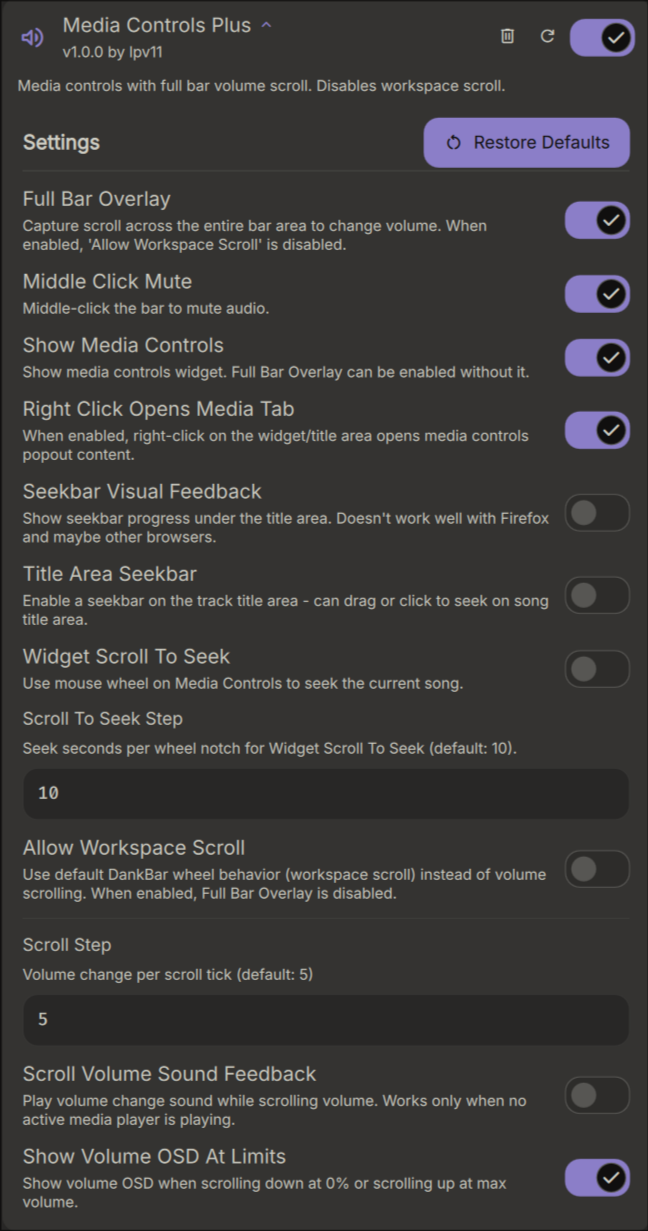
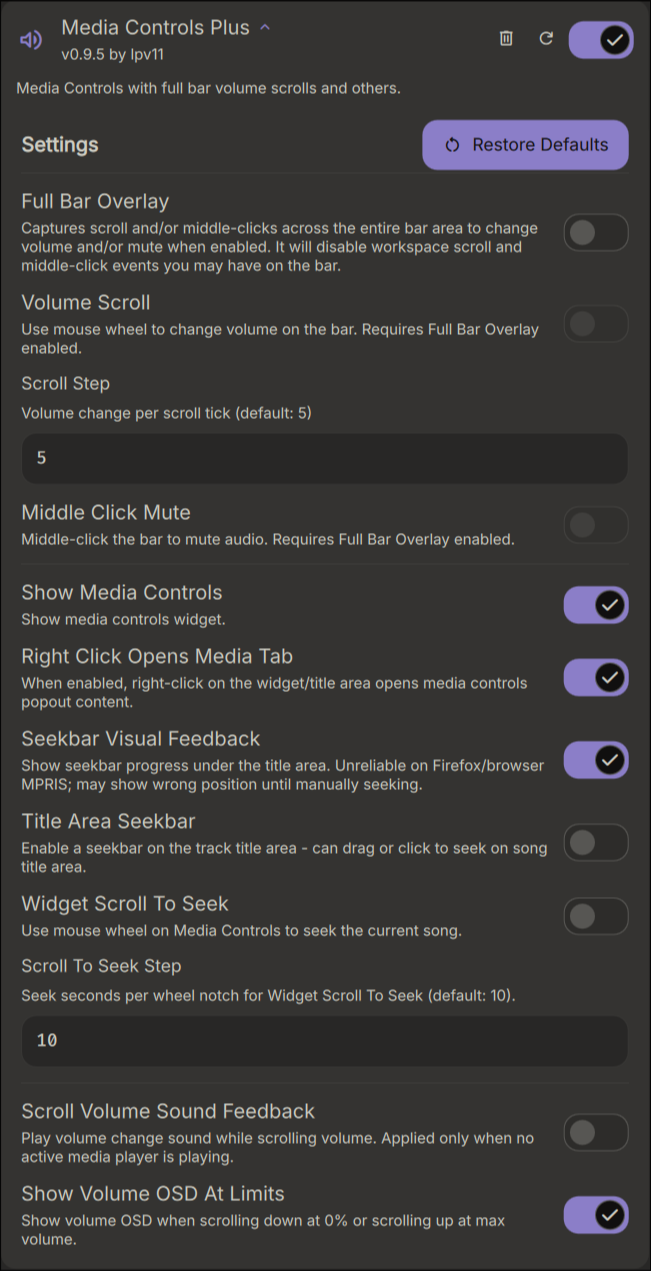
Sync latest plugin changes and screenshot

diff --git a/MediaControlsPlus.qml b/MediaControlsPlus.qml
@@ -22,10 +22,10 @@ PluginComponent {
     }
 
     property bool fullOverlay: pluginData.fullOverlay !== false
+    property bool volumeScrollEnabled: fullOverlay && pluginData.volumeScroll !== false
     property bool hideWhenNoMusic: true
     property bool showOsdAtLimits: pluginData.showOsdAtLimits !== false
     property bool showMediaControls: pluginData.showMediaControls !== false
-    property bool allowWorkspaceScroll: pluginData.allowWorkspaceScroll === true
     property bool middleClickMuteEnabled: overlayEnabled && pluginData.middleClickMute !== false
     property bool scrollVolumeSoundFeedbackEnabled: pluginData.scrollVolumeSoundFeedback === true
     property bool textSeekbarEnabled: showMediaControls && pluginData.textSeekbarEnabled === true
@@ -36,7 +36,7 @@ PluginComponent {
         return Number.isFinite(n) && n > 0 ? Math.floor(n) : 10
     }
     property bool rightClickOpensMediaTab: showMediaControls && pluginData.rightClickOpensMediaTab !== false
-    property bool overlayEnabled: fullOverlay && !allowWorkspaceScroll
+    property bool overlayEnabled: fullOverlay
     pillClickAction: showMediaControls ? (() => {
         togglePlayPause();
     }) : null
@@ -45,15 +45,9 @@ PluginComponent {
             toggleMediaOnlyPopout(x, y, width, section, screen)
     }
 
-    // Keep settings mutually exclusive in storage so toggles reflect reality.
-    onAllowWorkspaceScrollChanged: {
-        if (allowWorkspaceScroll && fullOverlay)
-            pluginData.fullOverlay = false
-    }
-
     onFullOverlayChanged: {
-        if (fullOverlay && allowWorkspaceScroll)
-            pluginData.allowWorkspaceScroll = false
+        if (!fullOverlay && pluginData.volumeScroll !== false)
+            pluginData.volumeScroll = false
     }
 
     onShowMediaControlsChanged: {
@@ -937,16 +931,16 @@ PluginComponent {
                 }
 
                 onWheel: wheel => {
+                    if (!root.volumeScrollEnabled) {
+                        wheel.accepted = false
+                        return
+                    }
                     if (root.showMediaControls && root.widgetAreaScrollSeekEnabled && mediaLoader.item) {
                         const p = mapToItem(mediaLoader, wheel.x, wheel.y)
                         if (p.x >= 0 && p.y >= 0 && p.x <= mediaLoader.width && p.y <= mediaLoader.height) {
                             wheel.accepted = false
                             return
                         }
-                    }
-                    if (root.allowWorkspaceScroll) {
-                        wheel.accepted = false
-                        return
                     }
                     if (wheel.angleDelta.y === 0)
                         return
@@ -966,11 +960,11 @@ PluginComponent {
             WheelHandler {
                 acceptedDevices: PointerDevice.Mouse | PointerDevice.TouchPad
                 onWheel: event => {
-                    if (root.showMediaControls && root.widgetAreaScrollSeekEnabled) {
+                    if (!root.volumeScrollEnabled) {
                         event.accepted = false
                         return
                     }
-                    if (root.allowWorkspaceScroll) {
+                    if (root.showMediaControls && root.widgetAreaScrollSeekEnabled) {
                         event.accepted = false
                         return
                     }
@@ -1023,16 +1017,16 @@ PluginComponent {
                 }
 
                 onWheel: wheel => {
+                    if (!root.volumeScrollEnabled) {
+                        wheel.accepted = false
+                        return
+                    }
                     if (root.showMediaControls && root.widgetAreaScrollSeekEnabled && mediaLoader.item) {
                         const p = mapToItem(mediaLoader, wheel.x, wheel.y)
                         if (p.x >= 0 && p.y >= 0 && p.x <= mediaLoader.width && p.y <= mediaLoader.height) {
                             wheel.accepted = false
                             return
                         }
-                    }
-                    if (root.allowWorkspaceScroll) {
-                        wheel.accepted = false
-                        return
                     }
                     if (wheel.angleDelta.y === 0)
                         return
@@ -1052,11 +1046,11 @@ PluginComponent {
             WheelHandler {
                 acceptedDevices: PointerDevice.Mouse | PointerDevice.TouchPad
                 onWheel: event => {
-                    if (root.showMediaControls && root.widgetAreaScrollSeekEnabled) {
+                    if (!root.volumeScrollEnabled) {
                         event.accepted = false
                         return
                     }
-                    if (root.allowWorkspaceScroll) {
+                    if (root.showMediaControls && root.widgetAreaScrollSeekEnabled) {
                         event.accepted = false
                         return
                     }

diff --git a/MediaControlsPlusSettings.qml b/MediaControlsPlusSettings.qml
@@ -28,8 +28,8 @@ PluginSettings {
             text: "Restore Defaults"
             iconName: "restart_alt"
             onClicked: {
-                allowWorkspaceScrollToggle.value = false
                 fullOverlayToggle.value = true
+                volumeScrollToggle.value = true
                 middleClickMuteToggle.value = true
                 showMediaControlsToggle.value = true
                 textSeekbarToggle.value = false
@@ -55,28 +55,56 @@ PluginSettings {
         id: fullOverlayToggle
         settingKey: "fullOverlay"
         label: "Full Bar Overlay"
-        description: "Capture scroll across the entire bar area to change volume. When enabled, 'Allow Workspace Scroll' is disabled."
+        description: "Captures scroll and/or middle-clicks across the entire bar area to change volume and/or mute when enabled. It will disable workspace scroll and middle-click events you may have on the bar."
         defaultValue: true
         onValueChanged: {
-            if (value && allowWorkspaceScrollToggle.value)
-                allowWorkspaceScrollToggle.value = false
+            if (value && !volumeScrollToggle.value)
+                volumeScrollToggle.value = true
+            if (!value && volumeScrollToggle.value)
+                volumeScrollToggle.value = false
         }
+    }
+
+    ToggleSetting {
+        id: volumeScrollToggle
+        settingKey: "volumeScroll"
+        label: "Volume Scroll"
+        description: "Use mouse wheel to change volume on the bar. Requires Full Bar Overlay enabled."
+        defaultValue: true
+        enabled: fullOverlayToggle.value
+    }
+
+    StringSetting {
+        id: volumeScrollStepSetting
+        settingKey: "step"
+        label: "Scroll Step"
+        description: "Volume change per scroll tick (default: 5)"
+        placeholder: "5"
+        defaultValue: "5"
+        enabled: fullOverlayToggle.value && volumeScrollToggle.value
     }
 
     ToggleSetting {
         id: middleClickMuteToggle
         settingKey: "middleClickMute"
         label: "Middle Click Mute"
-        description: "Middle-click the bar to mute audio."
+        description: "Middle-click the bar to mute audio. Requires Full Bar Overlay enabled."
         defaultValue: true
         enabled: fullOverlayToggle.value
+    }
+
+    Rectangle {
+        width: parent.width
+        height: 1
+        color: Theme.outline
+        opacity: 0.3
     }
 
     ToggleSetting {
         id: showMediaControlsToggle
         settingKey: "showMediaControls"
         label: "Show Media Controls"
-        description: "Show media controls widget. Full Bar Overlay can be enabled without it."
+        description: "Show media controls widget."
         defaultValue: true
         onValueChanged: {
             if (!value) {
@@ -133,18 +161,6 @@ PluginSettings {
         enabled: showMediaControlsToggle.value && widgetAreaScrollSeekToggle.value
     }
 
-    ToggleSetting {
-        id: allowWorkspaceScrollToggle
-        settingKey: "allowWorkspaceScroll"
-        label: "Allow Workspace Scroll"
-        description: "Use default DankBar wheel behavior (workspace scroll) instead of volume scrolling. When enabled, Full Bar Overlay is disabled."
-        defaultValue: false
-        onValueChanged: {
-            if (value && fullOverlayToggle.value)
-                fullOverlayToggle.value = false
-        }
-    }
-
     Rectangle {
         width: parent.width
         height: 1
@@ -152,20 +168,11 @@ PluginSettings {
         opacity: 0.3
     }
 
-    StringSetting {
-        id: volumeScrollStepSetting
-        settingKey: "step"
-        label: "Scroll Step"
-        description: "Volume change per scroll tick (default: 5)"
-        placeholder: "5"
-        defaultValue: "5"
-    }
-
     ToggleSetting {
         id: scrollVolumeSoundFeedbackToggle
         settingKey: "scrollVolumeSoundFeedback"
         label: "Scroll Volume Sound Feedback"
-        description: "Play volume change sound while scrolling volume. Works only when no active media player is playing."
+        description: "Play volume change sound while scrolling volume. Applied only when no active media player is playing."
         defaultValue: false
     }
 

diff --git a/README.md b/README.md
@@ -4,6 +4,11 @@
 
 Media controls with configurable full-bar volume overlay behavior for Dank Material Shell.
 
+## Warning
+
+It will overwrite any default actions your Dank bar has 
+with the actions you have enabled. E.g. enabling volume scroll routes mouse wheel input to volume control. Middle-click to mute can override other middle-click actions on the bar.
+
 ## Features
 - Full media controls widget with track info and playback controls
 - Full Bar Overlay (optional): scroll to change volume anywhere on the bar, middle-click mutes
@@ -15,7 +20,6 @@ Media controls with configurable full-bar volume overlay behavior for Dank Mater
 - Widget Scroll To Seek (optional): use mouse wheel on media controls to seek
 - Edge input behavior: with Widget Scroll To Seek or Title Area Seekbar enabled, mouse input at the very top or bottom of the widget area still follows default bar actions and ignores widget-specific seek settings. E.g. left click toggles play/pause & scroll wheel adjusts volume.
 - Scroll To Seek Step (configurable): seconds per wheel notch for Widget Scroll To Seek
-- Allow Workspace Scroll (optional): restores default DankBar workspace wheel behavior
 - Show Volume OSD At Limits (optional): still shows OSD when scrolling at 0% or max volume
 - Scroll Step (configurable): volume change per wheel notch
 - Scroll Volume Sound Feedback (optional): plays volume feedback sound while scrolling volume (applied only when no active media player is playing)
